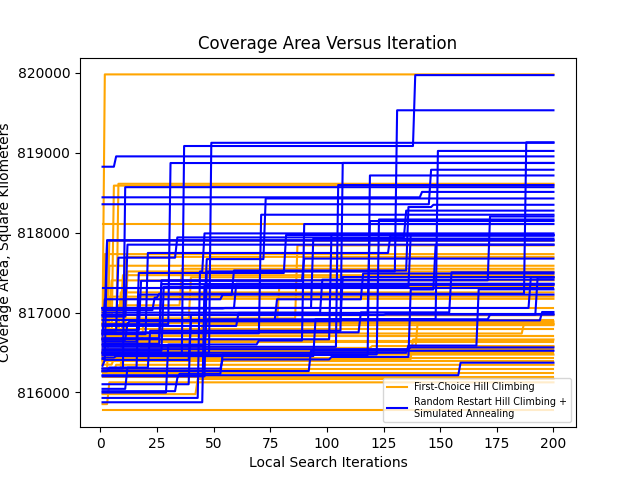
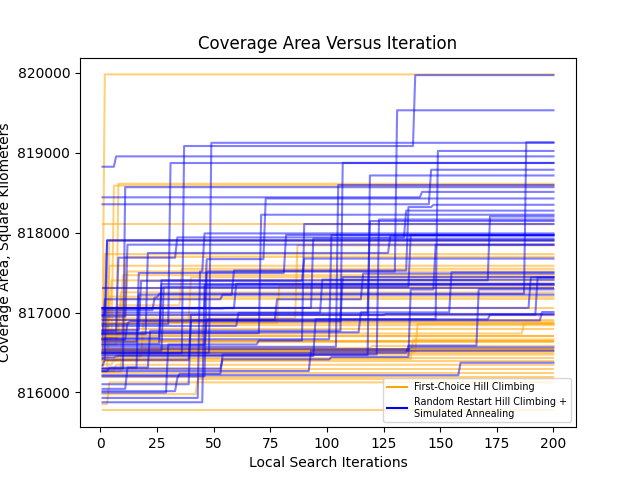
Added more figures

Changed region(s): [[0.1562, 0.125, 0.875, 0.875]]

diff --git a/src/general_output_characterization.py b/src/general_output_characterization.py
@@ -352,7 +352,7 @@ df.to_csv(summary_filename)
 hc_episode_df.to_csv("hc_episodes.csv")
 rrsa_episode_df.to_csv("rrsa_episodes.csv")
 
-# df_2 = pd.read_csv("Distribution_30episodes_200iterations.csv")
+# df_2 = pd.read_csv("Distribution_50episodes_200iterations.csv")
 # hc_df_2 = df_2[df_2["Algorithm"] == "First-Choice Hill Climbing"]
 # rrsa_df_2 = df_2[
 #     df_2["Algorithm"] == "Random Restart Hill Climbing with Simulated Annealing"
@@ -384,6 +384,19 @@ rrsa_episode_df.to_csv("rrsa_episodes.csv")
 #         np.median(rrsa_added_coverage_above_initial), median_abs_deviation(rrsa_added_coverage_above_initial)
 #     )
 # )
+
+hc_episodes_df = pd.read_csv("hc_episodes.csv", index_col=0)
+rrsa_episodes_df = pd.read_csv("rrsa_episodes.csv", index_col=0)
+
+hc_episodes_col_average = hc_episodes_df.apply(np.mean, axis=0)
+hc_episodes_col_mad = hc_episodes_df.apply(median_abs_deviation, axis=0)
+
+rrsa_episodes_col_average = rrsa_episodes_df.apply(np.mean, axis=0)
+rrsa_episodes_col_mad = rrsa_episodes_df.apply(median_abs_deviation, axis=0)
+
+hc_coverage_lists = hc_episodes_df.values.tolist()
+rrsa_coverage_lists = rrsa_episodes_df.values.tolist()
+
 procedure_end = time.time()
 procedure_duration_seconds = procedure_end - procedure_start
 procedure_duration_minutes = procedure_duration_seconds / 60.0
@@ -404,10 +417,10 @@ def plot_episode_lists(
     x_values = [i for i in range(1, iterations + 1)]
 
     for y_list in hc_lists:
-        ax.plot(x_values, y_list, color="orange")
+        ax.plot(x_values, y_list, color="orange", alpha = 0.5)
 
     for y_list in rrsa_lists:
-        ax.plot(x_values, y_list, color="blue")
+        ax.plot(x_values, y_list, color="blue", alpha = 0.5)
 
     orange_line_handle = mlines.Line2D(
         [], [], color="orange", label="First-Choice Hill Climbing"
@@ -426,6 +439,47 @@ def plot_episode_lists(
     ax.set_xlabel("Local Search Iterations")
     ax.set_ylabel("Coverage Area, Square Kilometers")
     plt.title(title)
+
+    return fig
+
+
+def plot_episode_average(
+    hc_median,
+    hc_mad,
+    rrsa_median,
+    rrsa_mad,
+    iterations
+):
+
+    # create the figure
+    fig, ax = plt.subplots()
+
+    x_values = [i for i in range(1, iterations + 1)]
+
+    hc_line = ax.errorbar(
+        x=x_values,
+        y=hc_median,
+        yerr=hc_mad,
+        color="orange",
+        label="First-Choice Hill Climbing",
+        fmt='o-',
+        alpha = 0.5
+    )
+
+    rrsa_line = ax.errorbar(
+        x=x_values,
+        y=rrsa_median,
+        yerr=rrsa_mad,
+        color="blue",
+        label="Random Restart Hill Climbing +\nSimulated Annealing",
+        fmt='o-',
+        alpha = 0.5
+    )
+
+    ax.legend(handles=[hc_line, rrsa_line], fontsize="x-small")
+    ax.set_ylabel("Coverage Radius, Kilometers")
+    ax.set_xlabel("Local Search Iterations")
+    plt.title("Episode Coverage Area Medians")
 
     return fig
 
@@ -490,6 +544,14 @@ episode_iterations = plot_episode_lists(
     title="Coverage Area Versus Iteration",
 )
 
+episode_averages = plot_episode_average(
+    hc_median=hc_episodes_col_average,
+    hc_mad=hc_episodes_col_mad,
+    rrsa_median=rrsa_episodes_col_average,
+    rrsa_mad=rrsa_episodes_col_mad,
+    iterations=LOCAL_SEARCH_ITERATIONS
+)
+
 duration_distributions = violin_plot_compare(
     hc_parameter=hc_durations,
     rrsa_parameter=rrsa_durations,
@@ -535,6 +597,7 @@ percent_coverage_above_initial_distributions = violin_plot_compare(
 
 
 episode_iterations.savefig("episode_iterations.png")
+episode_averages.savefig("episode_medians.png")
 duration_distributions.savefig("duration_distributions.png")
 coverage_distributions.savefig("coverage_distributions.png")
 coverage_above_existing_distributions.savefig(
